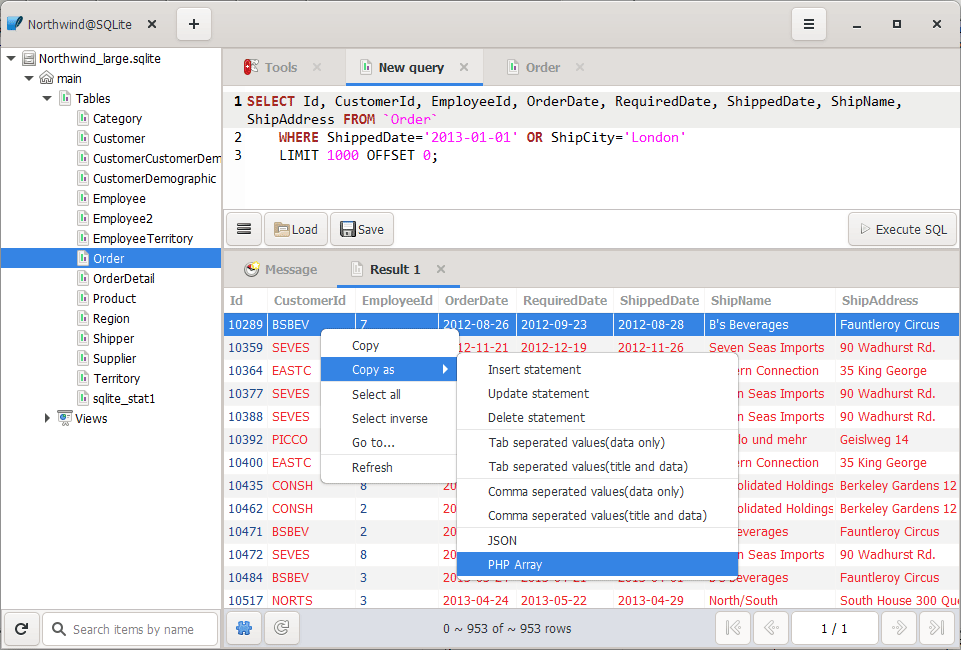
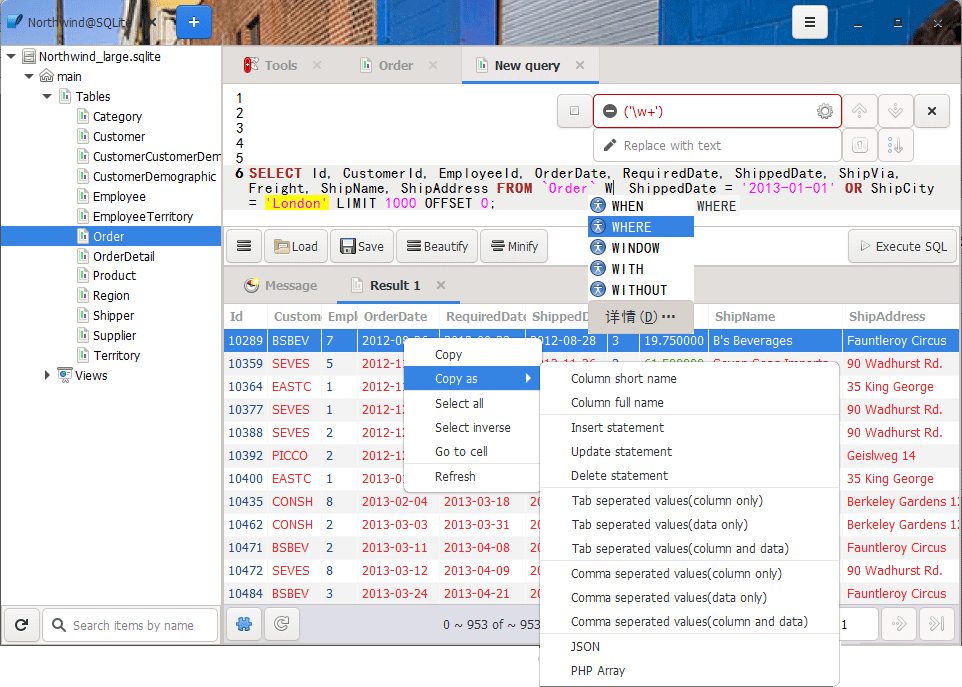
add docs for 0.28.1

diff --git a/.vuepress/config.js b/.vuepress/config.js
@@ -95,6 +95,7 @@ module.exports = {
                     ],
                     '/download/': [
                         '',
+                        'v0.28.1.200629',
                         'v0.27.1.200622',
                         'v0.26.1.200615',
                         'v0.25.1.200601',

diff --git a/download/v0.28.1.200629.md b/download/v0.28.1.200629.md
@@ -1,0 +1,33 @@
+---
+title: v0.28.1.200629
+lang: en-US
+---
+
+# Kangaroo v0.28.1.200629
+
+## New features & bug-fixes
+1. Implement search and replace function
+2. Update Chinese translation
+
+<div>
+    <script2 type="text/javascript" async="true" src="https://pagead2.googlesyndication.com/pagead/js/adsbygoogle.js" />
+    <ins class="adsbygoogle"
+        style="display:block; text-align:center;"
+        data-ad-layout="in-article"
+        data-ad-format="fluid"
+        data-ad-client="ca-pub-3975819313740938"
+        data-ad-slot="6760827895"></ins>
+    <script2 type="text/javascript">
+        (adsbygoogle = window.adsbygoogle || []).push({});
+    </script2>
+</div>
+
+
+## Installer & Portable packages
+
+| Packages        | Windows(64 bit) | Linux(64 bit)   | MacOS(64 bit)   |
+|-----------------|-----------------|-----------------|-----------------|
+| Installer<br/>(Github.com) | [Windows](https://github.com/dbkangaroo/kangaroo/releases/download/v0.28.1.200629/kangaroo-0.28.1.200629-AMD64.exe) | [Arch](https://github.com/dbkangaroo/kangaroo/releases/download/v0.28.1.200629/kangaroo-0.28.1.200629-1-x86_64.pkg.tar.xz) | [MacOS](https://github.com/dbkangaroo/kangaroo/releases/download/v0.28.1.200629/kangaroo-0.28.1.200629-macos.dmg) |
+| Portable<br/>(Github.com)  | [Windows](https://github.com/dbkangaroo/kangaroo/releases/download/v0.28.1.200629/kangaroo-0.28.1.200629-AMD64.7z) | [Arch](https://github.com/dbkangaroo/kangaroo/releases/download/v0.28.1.200629/kangaroo-0.28.1.200629-arch.tar.gz) [Ubuntu](https://github.com/dbkangaroo/kangaroo/releases/download/v0.28.1.200629/kangaroo-0.28.1.200629-ubuntu.tar.gz) | [MacOS](https://github.com/dbkangaroo/kangaroo/releases/download/v0.28.1.200629/kangaroo-0.28.1.200629-macos.tar.gz) |
+| Installer<br/>(Gitee.com) | [Windows](https://gitee.com/dbkangaroo/kangaroo/attach_files/419723/download) | [Arch](https://gitee.com/dbkangaroo/kangaroo/attach_files/419721/download) | [MacOS](https://gitee.com/dbkangaroo/kangaroo/attach_files/419725/download) |
+| Portable<br/>(Gitee.com)  | [Windows](https://gitee.com/dbkangaroo/kangaroo/attach_files/419722/download) | [Arch](https://gitee.com/dbkangaroo/kangaroo/attach_files/419724/download) [Ubuntu](https://gitee.com/dbkangaroo/kangaroo/attach_files/419720/download) | [MacOS](https://gitee.com/dbkangaroo/kangaroo/attach_files/419719/download) |

diff --git a/README.md b/README.md
@@ -1,8 +1,8 @@
 ---
 home: true
 heroImage: /kangaroo.png
-actionText: Download v0.27.1
-actionLink: /download/v0.27.1.200622
+actionText: Download v0.28.1
+actionLink: /download/v0.28.1.200629
 footer: Private property | Copyright © 2018-present Kangaroo development team
 ---
 
@@ -60,7 +60,7 @@ Development version will be released weekly, Stable and LTS(Long-term Support) v
 | Platform    | Windows(64 bit)   | Linux(64 bit)   | MacOS(64 bit)   |
 |-------------|-------------------|-------------------|-----------------|
 | Stable | [v0.27.1.200622](./download/v0.27.1.200622) | [v0.27.1.200622](./download/v0.27.1.200622) | [v0.27.1.200622](./download/v0.27.1.200622) |
-| Development | [v0.26.1.200615](./download/v0.26.1.200615) | [v0.26.1.200615](./download/v0.26.1.200615) | [v0.26.1.200615](./download/v0.26.1.200615) |
+| Development | [v0.28.1.200629](./download/v0.28.1.200629) | [v0.28.1.200629](./download/v0.28.1.200629) | [v0.28.1.200629](./download/v0.28.1.200629) |
 
 
 # Support the Project

diff --git a/download/README.md b/download/README.md
@@ -33,6 +33,7 @@ __Notice: only 5 latest versions available for downloading.__
 
 | Release date | Windows(64 bit)   | Linux(64 bit)   | MacOS(64 bit)   |
 |--------------|-------------------|-----------------|-----------------|
+| 2020-06-29   | [v0.28.1.200629](./v0.28.1.200629) | [v0.28.1.200629](./v0.28.1.200629) | [v0.28.1.200629](./v0.28.1.200629) |
 | 2020-06-15   | [v0.26.1.200615](./v0.26.1.200615) | [v0.26.1.200615](./v0.26.1.200615) | [v0.26.1.200615](./v0.26.1.200615) |
 | 2020-05-25   | [v0.24.1.200525](./v0.24.1.200525) | [v0.24.1.200525](./v0.24.1.200525) | [v0.24.1.200525](./v0.24.1.200525) |
 | 2020-04-20   | [v0.20.1.200420](./v0.20.1.200420) | [v0.20.1.200420](./v0.20.1.200420) | [v0.20.1.200420](./v0.20.1.200420) |

diff --git a/document/changelog.md b/document/changelog.md
@@ -5,6 +5,10 @@ lang: en-US
 
 # Kangaroo change timeline
 
+## [Kangaroo v0.28.1.200629](/download/v0.28.1.200629)
+1. Implement search and replace function
+2. Update Chinese translation
+
 ## [Kangaroo v0.27.1.200622](/download/v0.27.1.200622)
 1. Improve intellisense data for PostgreSQL
 2. Improve auto-completion style(icon/filter by input)
